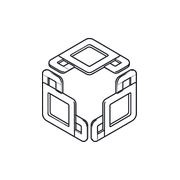
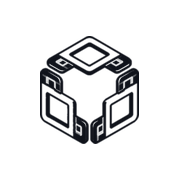
sakib left of navbar removed

Changed region(s): [[0.2222, 0.1944, 0.7778, 0.8056]]

diff --git a/src/App.jsx b/src/App.jsx
@@ -554,9 +554,8 @@ function Nav() {
         }`}
       >
         <div className="w-full max-w-[1920px] mx-auto flex xl:grid xl:grid-cols-[1fr_auto_1fr] items-center justify-between gap-3 px-4 sm:px-10 xl:px-12 py-2.5 xl:py-3">
-          <a href="/" onClick={(e) => goTo(e, "home")} className="flex items-center gap-2.5 font-bold text-lg tracking-tight shrink-0 xl:justify-self-start">
-            <img src="/icon-192.png" alt="" width="28" height="28" className="rounded-md" />
-            Sakib
+          <a href="/" onClick={(e) => goTo(e, "home")} aria-label="Sakib, home" className="flex items-center shrink-0 xl:justify-self-start">
+            <img src="/logo-mark.png" alt="" width="40" height="44" className="h-11 w-auto dark:invert" />
           </a>
 
           <nav

diff --git a/public/sw.js b/public/sw.js
@@ -1,12 +1,12 @@
 /* Sakib portfolio service worker — offline-first shell, runtime caching */
-const VERSION = "v5";
+const VERSION = "v6";
 const CACHE = `sakib-${VERSION}`;
 const PRECACHE = [
   "/",
   "/manifest.webmanifest",
   "/icon-192.png",
   "/icon-512.png",
-  "/logo.png",
+  "/logo-mark.png",
   "/favicon.ico",
 ];
 
